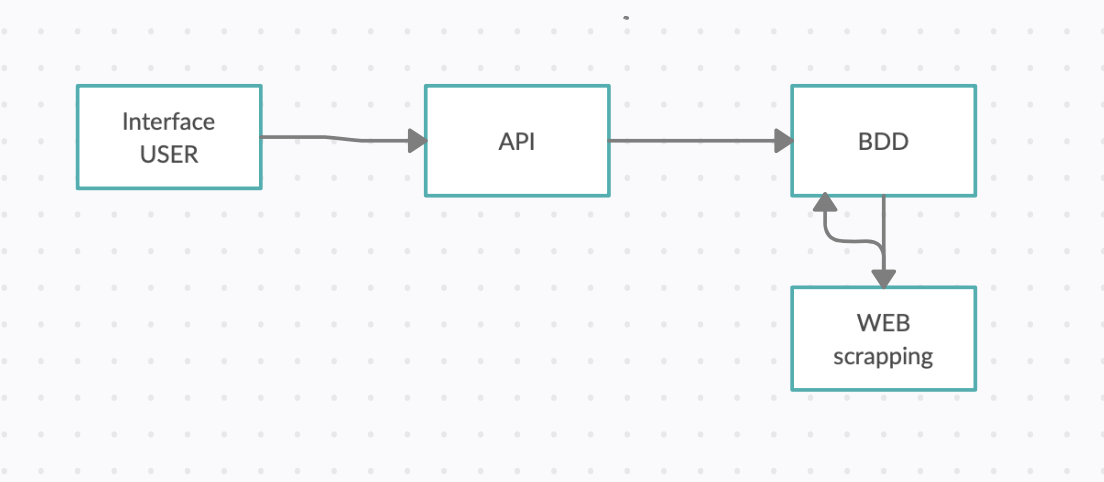
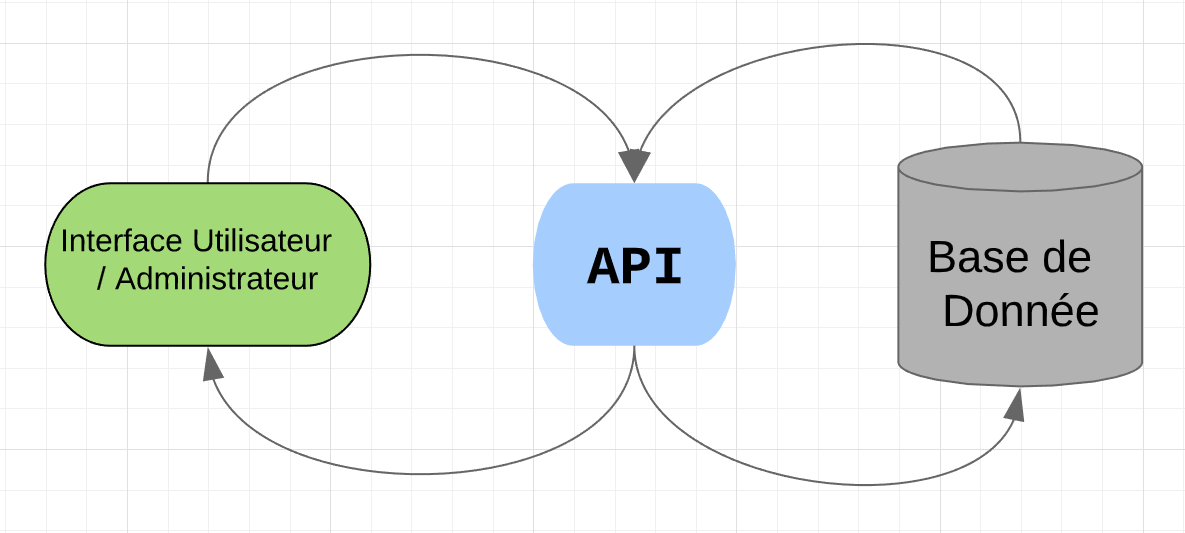
100%

diff --git a/IA-MaghrebUnited/Projet/E1-DESIGN.md b/IA-MaghrebUnited/Projet/E1-DESIGN.md
@@ -8,8 +8,8 @@ __Flask libraire python__ : un micro Framework open-source de création d’API
 
 __SQL lite__ : est une bibliothèque écrite en langage C qui propose un moteur de base de données relationnelle accessible par le langage SQL .
 
-__Web Scraping__ : Alimentation de notre base de donnée grâce à la collecte de donnée réel de réservation de base de donnée (Partie Bonus )
+__Tkinter__ : Mettre en place une interface pour faciliter la réservation de billet grâce à notre API 
 
-__Web Programing__ : Mettre en place une interface web pour faciliter la réservation de billet grâce à notre API
+# Modèle de données
 
 ![alt text](https://raw.githubusercontent.com/Amza99/tp-architecture/main/IA-MaghrebUnited/Projet/modeleRelation.png)
